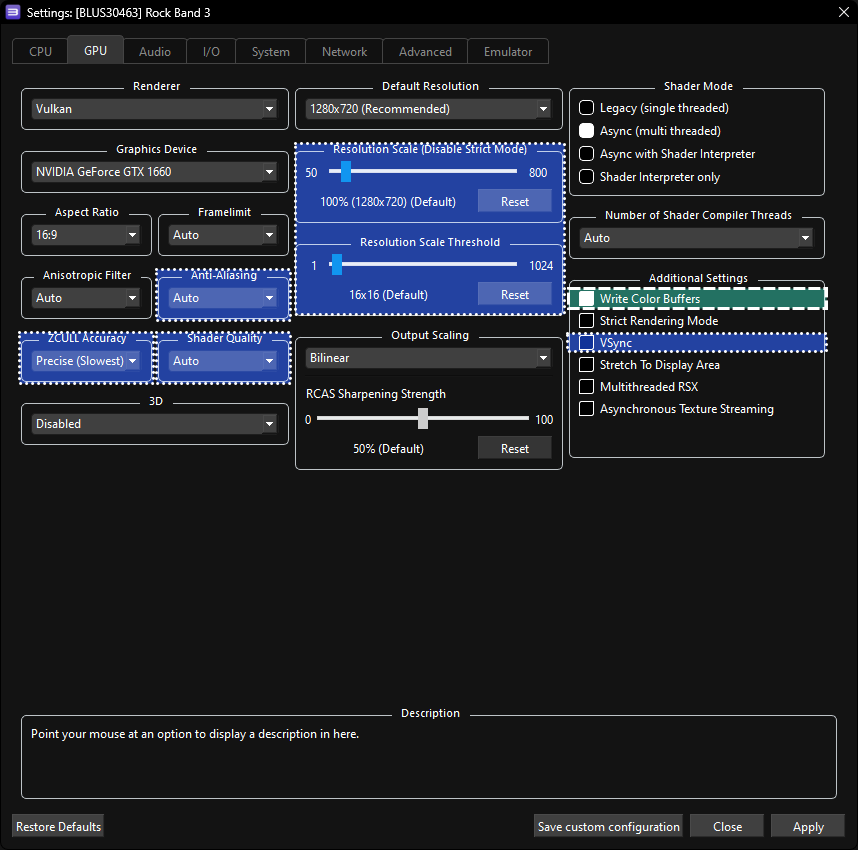
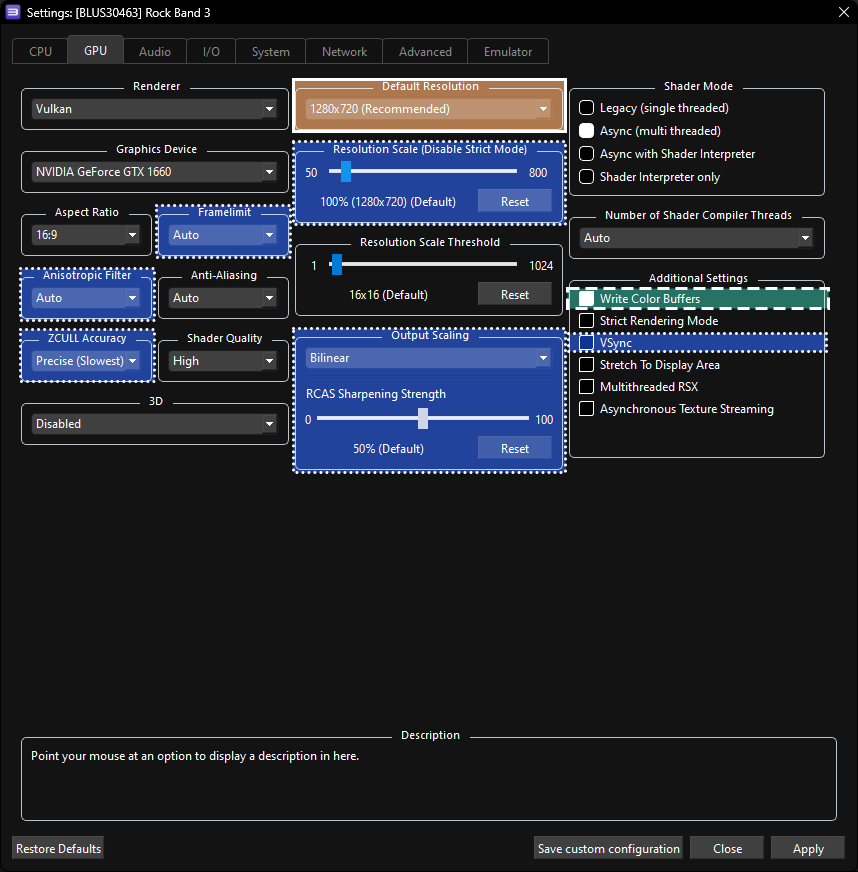
Mythbusters Pt 1
After testing for hours, I have removed any graphical setting that seemed to do nothing. Also, we're now telling people to use the built in games directory for easier mobility when used with portable VFS.

Changed region(s): [[0.0, 0.0, 0.9697, 0.5506], [0.0303, 0.8259, 0.9697, 0.8871], [0.0303, 0.9176, 0.9697, 0.9788]]

diff --git a/readme.md b/readme.md
@@ -115,7 +115,7 @@ Once again, the picture below links to the download page.
 [![A screenshot of Sony's "How to update PS3 console system software" page with the "Update using a computer" subcategory expanded.](images/inst/fwpage.png)](https://www.playstation.com/en-us/support/hardware/ps3/system-software/ "How to update PS3 console system software")
 
 
-Now **open up RPCS3**. **Tick "I have read the Quickstart guide" and "Do not show again", then click "Continue."**  
+Now, **go to the folder where you extracted RPCS3.** Keep this folder open in the background. **Open up RPCS3**. **Tick "I have read the Quickstart guide" and "Do not show again", then click "Continue."**  
 ![A screenshot of RPCS3 welcoming the user to RPCS3, with the mouse cursor hovering over "Continue."](images/inst/rpcs3init.png "Welcome to RPCS3")
 
 
@@ -135,9 +135,13 @@ Now **open up RPCS3**. **Tick "I have read the Quickstart guide" and "Do not sho
 It will start compiling modules to load the PS3 XMB into the emulator, which may take a few minutes. **You can either let it do its thing or close it.**  
 ![A screenshot of RPCS3 compiling PPU modules with a progress bar at 1/8th completion.](images/inst/rpcs3fwcomp.png "Compiling PPU modules...")
 
-Next, **navigate to the folder where you have your copy of Rock Band 3 stored and drag the folder into RPCS3**. Keep this folder somewhere safe where you won't accidentally delete it, as you'll need it. Again, you're on your own when it comes to finding a copy. [[I used “PS3 Disc Dumper” for this because it's the easiest way]](https://youtu.be/mRxSKxoYt_g).
+Next, **open a new file browser window and go to the folder where you have your copy of Rock Band 3 stored and drag the folder into RPCS3's "games" folder**. Keep this folder somewhere safe where you won't accidentally delete it, as you'll need it. Again, you're on your own when it comes to finding a copy. [[I used “PS3 Disc Dumper” for this because it's the easiest way]](https://youtu.be/mRxSKxoYt_g).
 
-![A GIF of the dumped folder of Rock Band 3 being dragged into RPCS3, which updates RPCS3 to display Rock Band 3 in the game list.](images/inst/rpcs3rb3dnd.gif "Rock Band 3 [BLUS30463]")
+![A GIF of the dumped folder of Rock Band 3 being dragged into RPCS3's "games" folder.](images/inst/rpcs3rb3dnd.gif "Rock Band 3 [BLUS30463]")
+
+After dragging it in, click "Refresh" in RPCS3. This should make Rock Band 3 appear in your library.  
+
+![A GIF of "Refresh" being clicked in RPCS3, which updates it to display Rock Band 3 in the game list.](images/inst/rpcs3refresh.gif "Rock Band 3 [BLUS30463]")
 
 Rock Band 3 is now in your game library in RPCS3, but it's not quite ready yet. Next, go get [**[*Rock Band 3 Deluxe*]**](https://rb3dx.neocities.org/).
 
@@ -368,7 +372,7 @@ We'll go tab by tab, starting with:
 <br/>
 
 ## GPU
-![A screenshot of Rock Band 3's GPU custom settings, highlighting Write Color Settings highlighted in green with a dotted outline, ZCULL Accuracy, Resolution Scale, Resolution Scale Threshold, Frame Limit, Shader Quality, and VSync highlighted in blue with a dotted outline.](images/cust/gpu.png "GPU")
+![A screenshot of Rock Band 3's GPU custom settings, highlighting Write Color Settings highlighted in green with a dotted outline, Framelimit, Anisotropic Filter, ZCull Accuracy, Output Scaling and VSync highlighted in blue with a dotted outline, and "Default Resolution" highlighted in tan with a solid outline.](images/cust/gpu.png "GPU")
 * ![A green square with a dashed outline.](images/cust/smallgreen.png "Green Square") **REQUIRED**: 
 	* **Enable "Write Color Buffers"** - Characters will have severe graphical bugs without this.
 * ![A blue square with a dotted outline.](images/cust/smallblue.png "Blue Square") **Tweak depending on graphics card**: 
@@ -378,16 +382,19 @@ We'll go tab by tab, starting with:
 		* Set it to 60 if you want a locked 60 FPS framerate (redundant with 60 Hz Vblank). 
 		* Auto will use default RPCS3 settings.
 		* It is suggested to use your graphics driver's settings or software like MSI Afterburner to cap your framerate instead.
-		* Adjusting the frame rate to be higher than 60 exponentially uses more GPU and CPU, so this is not recommended for low end machines.
-		* Framerates higher than 60 can also cause the vocal pitch detection to fail.
-	* **Adjust "Shader Quality"** depending on your system.
-		* Low and Medium will reduce quality at certain frame rates with little performance gains.
-		* High is the best option. Ultra looks and performs similar to high.
-		* Auto will use default RPCS3 settings. This is the suggested setting. 
-	* **Adjust "Resolution Scale"** to preference and to what your computer can handle. Lower for performance gains at a drastic cost in quality. Increase for sharper graphics at the cost of higher GPU requirements.
-	* **Adjust "Resolution Scale Threshold"** depending on "Resolution Scale" above. Set the number to whatever percent you increased your resolution (i.e., for 1920x1080, which is 150% of 1280x720, you'd calculate what 150% of 16 is, which would be 24.
-	* **Change "ZCULL Accuracy" to "Relaxed"** - For low end GPUs. Provides a slight performance improvement but may cause graphical anomalies.
-.
+		* Adjusting the frame rate to be higher than 60 exponentially uses more resources, so this is not recommended for low end machines.
+		* Framerates higher than 60 can also cause the vocal pitch detection to behave incorrectly.
+	* **Change "ZCULL Accuracy" to "Relaxed"** - Provides a slight performance improvement but may cause graphical anomalies in very rare situations.
+	* **Adjust "Resolution Scale"** to preference and to what your computer can handle. Lower for performance gains at a drastic cost in quality. Increase for sharper graphics at the cost of higher GPU requirements. This forces the game to run at this resolution.
+	* **Adjust "Output Scaling"** to preference and to what your computer can handle. This affects how the game is "blown up" in size when fitting to your monitor's native resolution. Helpful for those keeping Resolution Scale at 100% and playing on a monitor larger than 1280x720.
+		* Nearest is completely unfiltered and gives you an unmodified image.
+		* Bilinear filter uses smoothing to scale the image up. This may cause the game to look blurry.
+		* FidelityFX Super Resolution (FSR) uses complicated math to sharpen and enhance the image.
+			* You can use "RCAS Sharpening Strength" below to adjust the strength of its effect.
+	* ![A tan square with a solid outline.](images/cust/smalltan.png "Tan Square") **For high-end GPUs and advanced users**: 
+		* **Change "Default Resolution" to "1920x1080"**. While Rock Band 3 officially caps out at 720p, 1080p can be forced on by manually editing the configuration file or editing the game data configuration. Please refer to [the relevant guide on how to do this](forcefullhd.md) after finishing up with everything else.
+
+
 <br/>
 
 ## Audio
